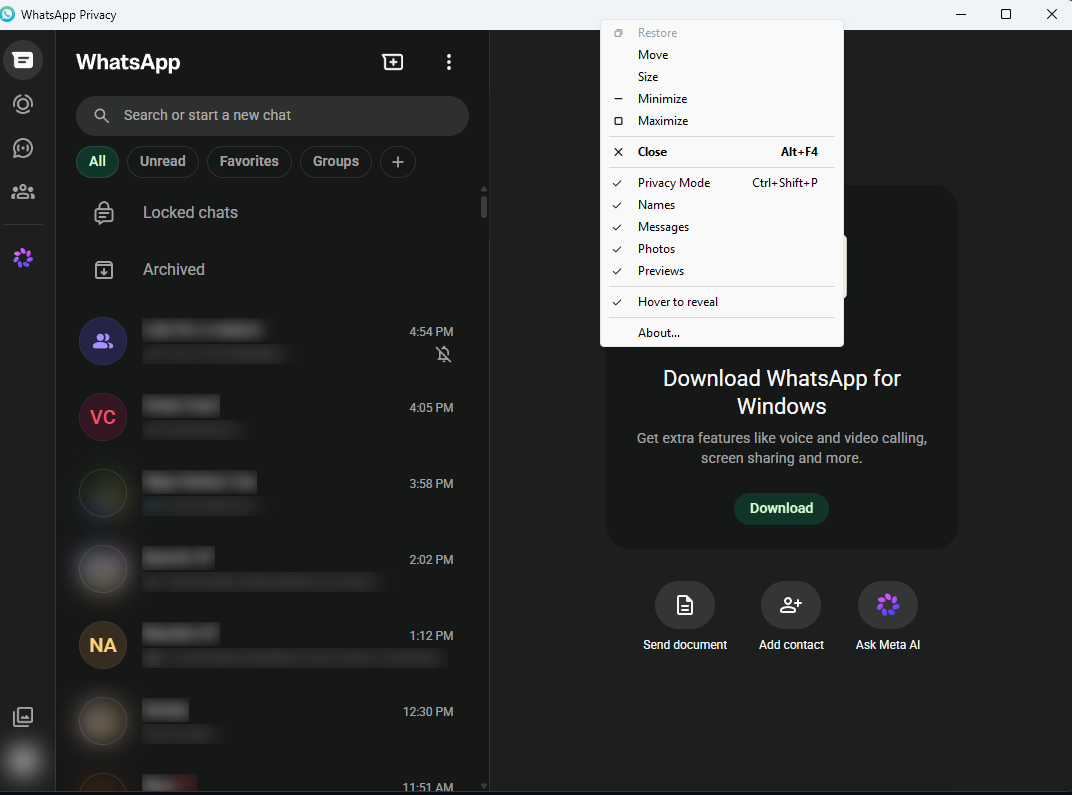
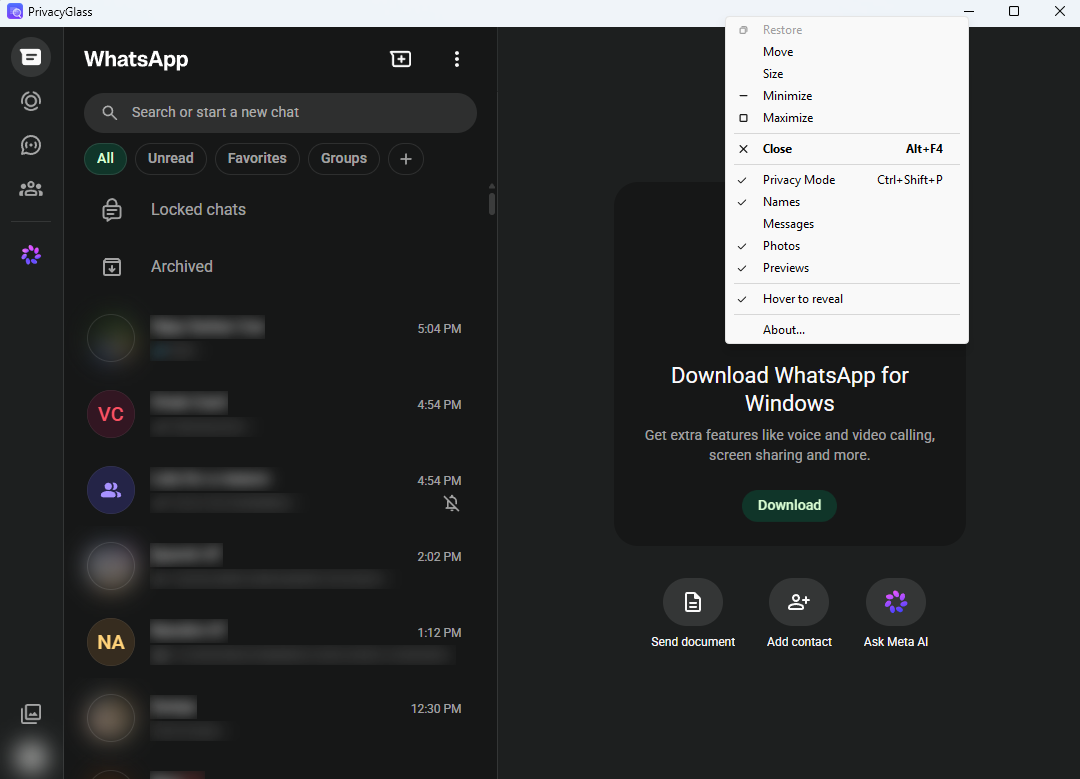
Update README screenshot to the rebranded app
The old shot still showed the WhatsApp Privacy title bar and green icon. The
replacement also has Messages unchecked, which demonstrates the per-category
control rather than just showing everything blurred at once.

diff --git a/README.md b/README.md
@@ -27,7 +27,10 @@ WhatsApp session.
 Everything lives in the **window menu**: right-click the title bar, or press
 **Alt+Space**.
 
-![The window menu, with chat content blurred behind it](docs/images/menu.png)
+![The window menu open over a blurred chat list. Messages is unchecked while the other categories stay on.](docs/images/menu.png)
+
+*Above: names, photos and previews blurred, with Messages toggled off — the four
+categories work independently.*
 
 | Item | What it does |
 |---|---|
